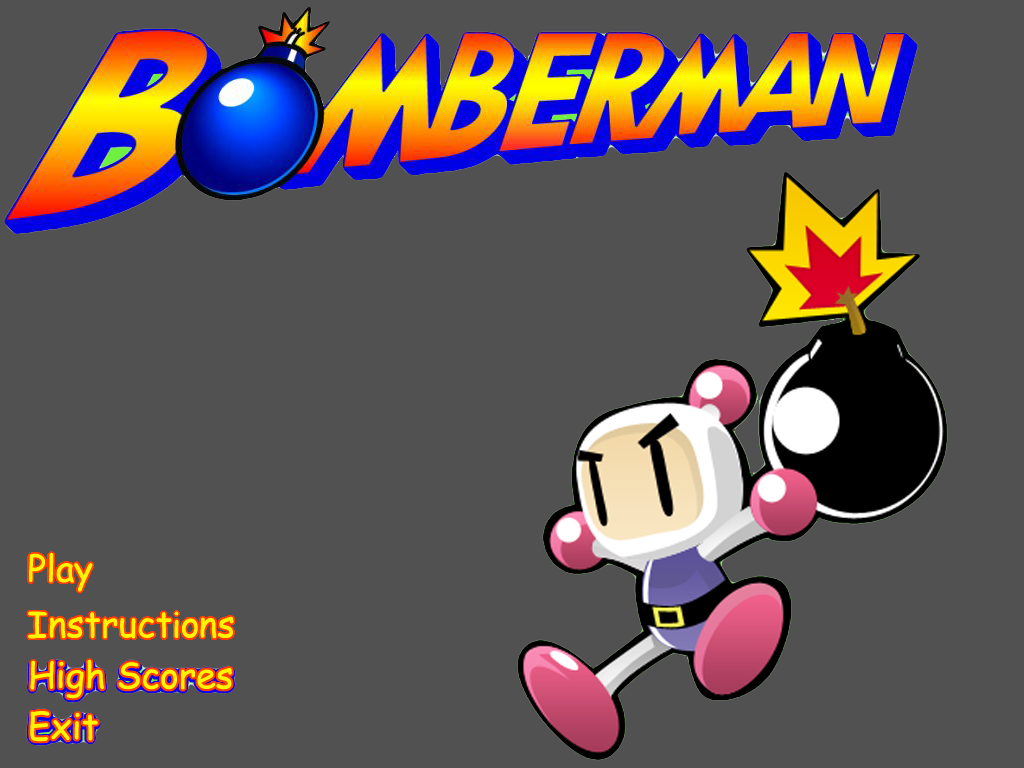
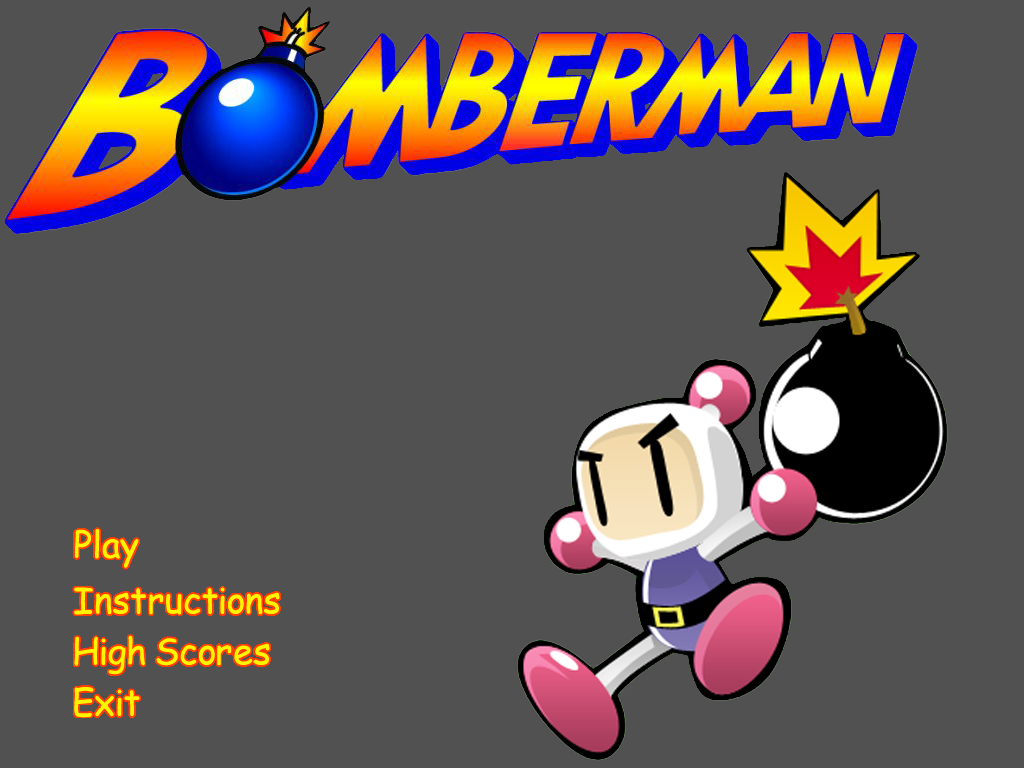
menu

diff --git a/menu.py b/menu.py
@@ -1,28 +1,57 @@
 import pygame
 from pygame import *
+from game import Play
 
-pygame.init()
-screen = pygame.display.set_mode((800, 600))
-bg = Surface((800, 600))
-bg.fill(Color('#004400'))
-pygame.display.set_caption('BomberMan')
-checked_btn = 1
-n = 5  # Количество строк в меню
-objects = []
+class Menu:
+    def __init__(self):
+        pygame.init()
+        self.screen = pygame.display.set_mode((1024, 768))
+        self.bg = pygame.image.load('Resources\images\menu.png').convert()
+        pygame.display.set_caption('BomberMan')
+        self.screen.blit(self.bg, (0, 0))
+        self.cycle()
 
-opened = True
-while opened:
-    for event in pygame.event.get():
-        if event.type == KEYDOWN:
-            k = event.key
-            if k == K_ESCAPE:
-                opened = False
-            elif k == K_DOWN:
-                checked_btn = min(checked_btn + 1, n)
-            elif k == K_UP:
-                checked_btn = max(checked_btn - 1, 1)
-        elif event.type == QUIT:
-            opened = False
-    screen.blit(bg, (0, 0))
-    pygame.display.update()
+    def cycle(self):
+        n = 4  # Количество строк в меню
+        checked_btn = 0
+        btns = [(60, 522, 120, 572), (60, 575, 260, 625), (60, 627, 250, 677), (60, 675, 120, 725)]
+        while True:
+            for event in pygame.event.get():
+                if event.type == KEYDOWN:
+                    k = event.key
+                    if k == K_ESCAPE:
+                        exit()
+                    elif k == K_DOWN and checked_btn < n - 1:
+                        checked_btn += 1
+                    elif k == K_UP and checked_btn > 0:
+                        checked_btn -= 1
+                    elif k == 32 or k == 271 or k == 13:  # space, enter, small_enter
+                        self.pressed(checked_btn)
+                elif event.type == QUIT:
+                    exit()
+                elif event.type == MOUSEBUTTONDOWN and event.button == 1:
+                    [x, y] = event.pos
+                    for i in range(n):
+                        if btns[i][0] <= x <= btns[i][2] and btns[i][1] <= y <= btns[i][3]:
+                            self.pressed(i)
+                            break
+            self.screen.blit(pygame.image.load('Resources\images\submenu.bmp').convert(), (0, 502))
+            self.screen.blit(pygame.image.load('Resources\images\\bomb.png').convert(), (20, btns[checked_btn][1]))
+            pygame.display.update()
+
+    def pressed(self, idx):
+        if idx == 0:
+            Play(self.screen)
+        elif idx == 1:
+            self.instructions()
+        elif idx == 2:
+            self.scores()
+        else:
+            exit()
+
+    def scores(self):
+        pass
+
+    def instructions(self):
+        pass
 

diff --git a/game.py b/game.py
@@ -1,0 +1,7 @@
+import pygame
+from pygame import *
+
+
+class Play:
+    def __init__(self, screen):
+        pass

diff --git a/start.py b/start.py
@@ -1,0 +1,4 @@
+from menu import Menu
+
+
+Menu()
